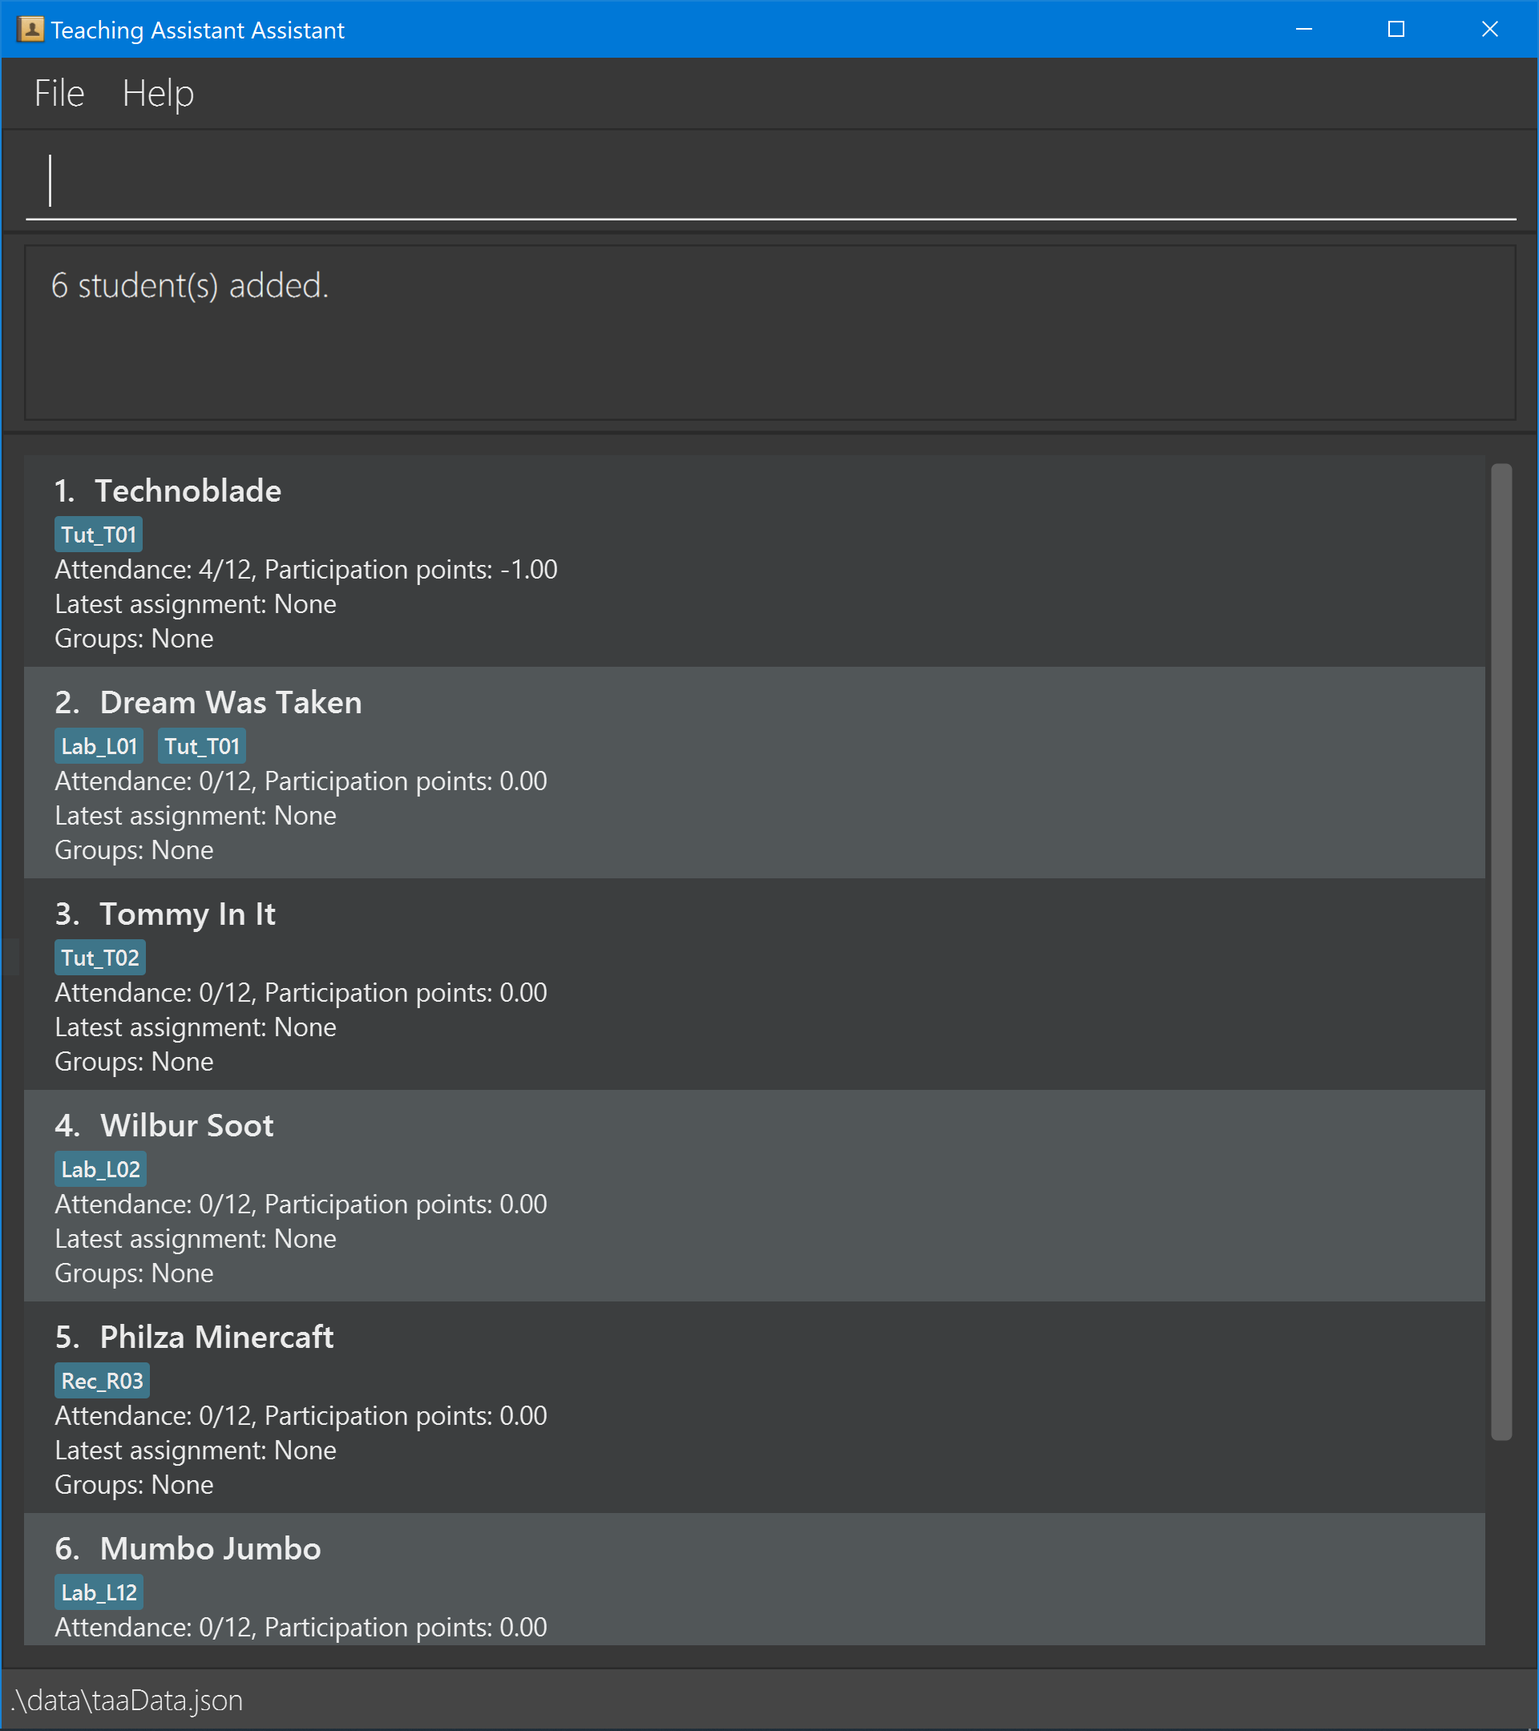
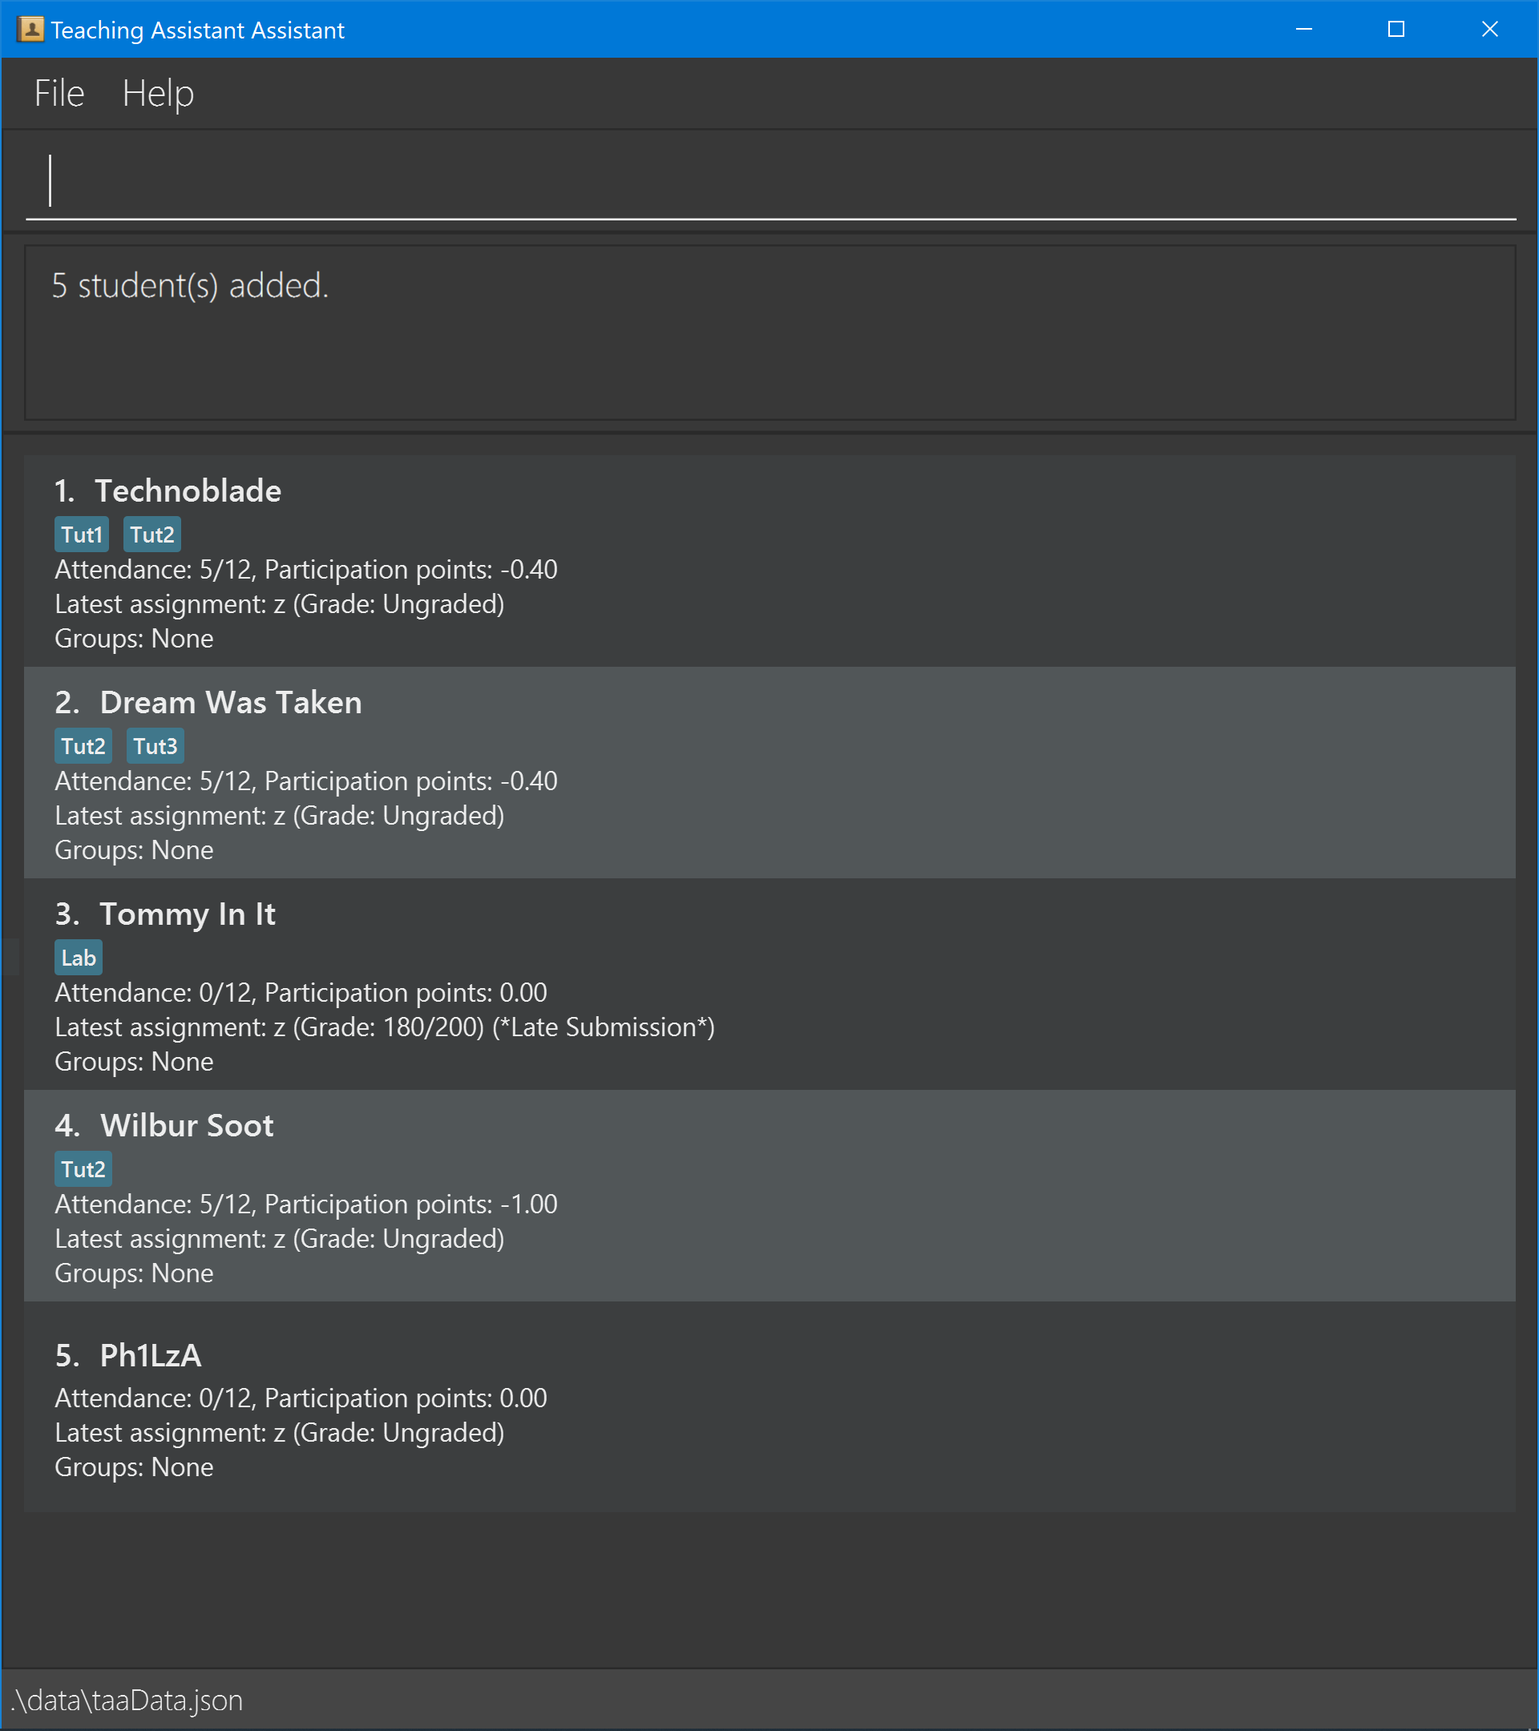
Fix style error

diff --git a/src/test/java/taa/model/student/StudentTest.java b/src/test/java/taa/model/student/StudentTest.java
@@ -14,7 +14,6 @@ import org.junit.jupiter.api.Assertions;
 import org.junit.jupiter.api.Test;
 
 import taa.model.assignment.Assignment;
-import taa.model.assignment.Submission;
 import taa.model.assignment.exceptions.AssignmentNotFoundException;
 import taa.model.tag.Tag;
 import taa.testutil.Assert;
@@ -60,41 +59,41 @@ public class StudentTest {
     public void equals() {
         // same values -> returns true
         Student aliceCopy = new PersonBuilder(TypicalPersons.ALICE).build();
-        Assertions.assertTrue(TypicalPersons.ALICE.equals(aliceCopy));
+        Assertions.assertEquals(TypicalPersons.ALICE, aliceCopy);
 
         // same object -> returns true
-        Assertions.assertTrue(TypicalPersons.ALICE.equals(TypicalPersons.ALICE));
+        Assertions.assertEquals(TypicalPersons.ALICE, TypicalPersons.ALICE);
 
         // null -> returns false
-        Assertions.assertFalse(TypicalPersons.ALICE.equals(null));
+        Assertions.assertNotEquals(null, TypicalPersons.ALICE);
 
         // different type -> returns false
-        Assertions.assertFalse(TypicalPersons.ALICE.equals(5));
+        Assertions.assertNotEquals(5, TypicalPersons.ALICE);
 
         // different student -> returns false
-        Assertions.assertFalse(TypicalPersons.ALICE.equals(TypicalPersons.BOB));
+        Assertions.assertNotEquals(TypicalPersons.ALICE, TypicalPersons.BOB);
 
         // different name -> returns false
         Student editedAlice = new PersonBuilder(TypicalPersons.ALICE).withName(VALID_NAME_BOB).build();
-        Assertions.assertFalse(TypicalPersons.ALICE.equals(editedAlice));
+        Assertions.assertNotEquals(TypicalPersons.ALICE, editedAlice);
 
         // different tags -> returns false
         editedAlice = new PersonBuilder(TypicalPersons.ALICE).withTags(VALID_TAG_TUT_15).build();
-        Assertions.assertFalse(TypicalPersons.ALICE.equals(editedAlice));
+        Assertions.assertNotEquals(TypicalPersons.ALICE, editedAlice);
     }
 
     @Test
     public void getName() {
         // Test pre-built Students
-        Assertions.assertTrue(TypicalPersons.AMY.getName().equals(new Name(VALID_NAME_AMY)));
-        Assertions.assertTrue(TypicalPersons.BOB.getName().equals(new Name(VALID_NAME_BOB)));
+        Assertions.assertEquals(TypicalPersons.AMY.getName(), new Name(VALID_NAME_AMY));
+        Assertions.assertEquals(TypicalPersons.BOB.getName(), new Name(VALID_NAME_BOB));
 
         // Test fresh copies of Students
         Student amyCopy = new PersonBuilder(TypicalPersons.AMY).build();
-        Assertions.assertTrue(amyCopy.getName().equals(new Name(VALID_NAME_AMY)));
+        Assertions.assertEquals(amyCopy.getName(), new Name(VALID_NAME_AMY));
 
         Student bobCopy = new PersonBuilder(TypicalPersons.BOB).build();
-        Assertions.assertTrue(bobCopy.getName().equals(new Name(VALID_NAME_BOB)));
+        Assertions.assertEquals(bobCopy.getName(), new Name(VALID_NAME_BOB));
     }
 
     @Test
@@ -118,7 +117,7 @@ public class StudentTest {
     public void getClassTags_modifySet_throwsUnsupportedOperationException() {
         Set<Tag> amyClassTags = TypicalPersons.AMY.getClassTags();
         Assert.assertThrows(UnsupportedOperationException.class, ()
-            -> amyClassTags.add(new Tag(VALID_TAG_TUT_15)));
+                -> amyClassTags.add(new Tag(VALID_TAG_TUT_15)));
     }
 
     @Test
@@ -226,6 +225,6 @@ public class StudentTest {
     @Test
     public void getGradesForAssignment_noSuchAssignment_throwsAssignmentNotFoundException() {
         Assertions.assertThrows(AssignmentNotFoundException.class, ()
-            -> TypicalPersons.AMY.getGradesForAssignment("nonexistent"));
+                -> TypicalPersons.AMY.getGradesForAssignment("nonexistent"));
     }
 }

diff --git a/src/main/java/taa/model/student/Student.java b/src/main/java/taa/model/student/Student.java
@@ -55,8 +55,8 @@ public class Student {
     }
 
     /**
-     * @return an immutable class tag set, which throws {@code UnsupportedOperationException} if modification is
-     * attempted.
+     *  @return an immutable class tag set, which throws {@code UnsupportedOperationException} if modification is
+     *      attempted.
      */
     public Set<Tag> getClassTags() {
         return Collections.unmodifiableSet(classTags);
@@ -137,8 +137,8 @@ public class Student {
     }
 
     /**
-     * @return true if both persons have the same identity and data fields. This defines a stronger notion of equality
-     * between two persons.
+     *  @return true if both persons have the same identity and data fields. This defines a stronger notion of equality
+     *      between two persons.
      */
     @Override
     public boolean equals(Object other) {

diff --git a/src/main/java/taa/model/assignment/AssignmentList.java b/src/main/java/taa/model/assignment/AssignmentList.java
@@ -280,7 +280,7 @@ public class AssignmentList {
 
     /** @return The name of the latest assignment or null if no assignment is in list */
     public String getLatestAsgnName() {
-        if(assignments.isEmpty()) {
+        if (assignments.isEmpty()) {
             return null;
         }
         final Assignment assignment = assignments.get(assignments.size() - 1);

diff --git a/docs/DeveloperGuide.md b/docs/DeveloperGuide.md
@@ -372,7 +372,7 @@ Among the two options described below, our team decided to choose the former as 
 ### Mark Attendance
 
 #### Implementation
-Mark Attendance command is facilitated by `MarkAttendanceParser`, `MarkAttednanceCommand` and `Model`
+Mark Attendance command is facilitated by `MarkAttendanceParser`, `MarkAttednanceCommand`, and `Model`
 
 * `MarkAttendanceParser`-- Parse the input of users
 * `MarkAttednanceCommand` -- Execute the command given the parsed user input
@@ -403,7 +403,7 @@ Sequence Diagram for Marking Attendance
 ### Unmark Attendance
 
 #### Implementation
-Unmark Attendance command is facilitated by `UnarkAttendanceParser`, `UnarkAttednanceCommand` and `Model`
+Unmark Attendance command is facilitated by `UnarkAttendanceParser`, `UnarkAttednanceCommand`, and `Model`
 
 * `UnarkAttendanceParser`-- Parse the input of users
 * `UnarkAttednanceCommand` -- Execute the command given the parsed user input
@@ -434,7 +434,7 @@ Sequence Diagram for Unmarking Attendance
 ### Insert Participation
 
 #### Implementation
-Insert Participation command is facilitated by `InsertParticipationParser`, `InsertParticipationCommand` and `Model`
+Insert Participation command is facilitated by `InsertParticipationParser`, `InsertParticipationCommand`, and `Model`
 
 * `InsertParticipationParser`-- Parse the input of users
 * `InsertParticipationCommand` -- Execute the command given the parsed user input
@@ -463,7 +463,7 @@ Sequence Diagram for Inserting Participation
 ### Add Assignment
 
 #### Implementation
-AddAssignment command is facilitated by `AddAssignmentCommandParser`, `AddAssignmentCommand` and `Model`
+AddAssignment command is facilitated by `AddAssignmentCommandParser`, `AddAssignmentCommand`, and `Model`
 
 * `AddAssignmentCommandParser`-- Parse the input of users
 * `AddAssignmentCommand` -- Execute the command given the parsed user input
@@ -493,7 +493,7 @@ Sequence Diagram for Adding Assignment
 ### Delete Assignment
 
 #### Implementation
-DeleteAssignment command is facilitated by `DeleteAssignmentCommandParser`, `DeleteAssignmentCommand` and `Model`
+DeleteAssignment command is facilitated by `DeleteAssignmentCommandParser`, `DeleteAssignmentCommand`, and `Model`
 
 * `DeleteAssignmentCommandParser`-- Parse the input of users
 * `DeleteAssignmentCommand` -- Execute the command given the parsed user input
@@ -523,7 +523,7 @@ Sequence Diagram for Deleting Assignment
 ### Grade Assignment
 
 #### Implementation
-Grade command is facilitated by `GradeCommandParser`, `GradeCommand` and `Model`
+Grade command is facilitated by `GradeCommandParser`, `GradeCommand`, and `Model`
 
 * `GradeCommandParser`-- Parse the input of users
 * `GradeCommand` -- Execute the command given the parsed user input
@@ -553,7 +553,7 @@ Sequence Diagram for grading a student submission
 ### Ungrade Assignment
 
 #### Implementation
-Ungrade command is facilitated by `UngradeCommandParser`, `UngradeCommand` and `Model`
+Ungrade command is facilitated by `UngradeCommandParser`, `UngradeCommand`, and `Model`
 
 * `UngradeCommandParser`-- Parse the input of users
 * `UngradeCommand` -- Execute the command given the parsed user input
@@ -583,7 +583,7 @@ Sequence Diagram for ungrading a student submission
 ### Add Alarm
 
 #### Implementation
-Grade command is facilitated by `AddAlarmCommandParser`, `AddAlarmCommand` and `Model`
+Grade command is facilitated by `AddAlarmCommandParser`, `AddAlarmCommand`, and `Model`
 
 * `AddAlarmCommandParser`-- Parse the input of users
 * `AddAlarmCommand` -- Execute the command given the parsed user input
@@ -641,12 +641,33 @@ Sequence Diagram for listing the alarms
     * Cons: Add complexity to the code structure unnecessarily, as the parser does not need to do anything (not for the
       current functions of the list_alarms command, though may be extended in the future to allow listing of a 
       particular alarm)
+    
+### Import CSV files Feature
+Import CSV command is facilitated by `ImportCommandParser`, `ImportCommand`, and `Model`
+#### Implementation
+#### Design Considerations
 
-### Data archiving
+### Export CSV files Feature
+Import CSV command is facilitated by `ExportCommandParser`, `ExportCommand`, and `Model`
+#### Implementation
+#### Design Considerations
+
+--------------------------------------------------------------------------------------------------------------------
+
+## **Documentation, logging, testing, configuration, dev-ops**
+
+* [Documentation guide](Documentation.md)
+* [Testing guide](Testing.md)
+* [Logging guide](Logging.md)
+* [Configuration guide](Configuration.md)
+* [DevOps guide](DevOps.md)
+
+### Data Archiving
+TAA application data only contains a list of students and a list of assignments. It is automatically stored in JSON
+format at each successful command execution.
 
 #### Implementation
-TAA application data only contains a list of students and a list of assignments. It is automatically stored in JSON
-format at each successful command execution. It is handled by `JsonTaaStorage`.
+TAA data saving is handled by `JsonTaaStorage`.
 
 Reading data from JSON:
 
@@ -668,15 +689,8 @@ by
 `JsonSerializableTaaData` which supports [Jackson](https://github.com/FasterXML/jackson) data conversion between Java
 objects and JSON objects.
 
---------------------------------------------------------------------------------------------------------------------
-
-## **Documentation, logging, testing, configuration, dev-ops**
-
-* [Documentation guide](Documentation.md)
-* [Testing guide](Testing.md)
-* [Logging guide](Logging.md)
-* [Configuration guide](Configuration.md)
-* [DevOps guide](DevOps.md)
+#### Design Considerations
+Inherited from AB3. The Jackson framework is easy to use.
 
 --------------------------------------------------------------------------------------------------------------------
 
@@ -716,7 +730,7 @@ Priorities: High (must have) - `* * *`, Medium (nice to have) - `* *`, Low (unli
 | `* * *`  | user           | have CSV files storing my data                                           | make backups to guard against data loss                                                                      |
 | `* * *`  | user           | load in CSV files to restore data                                        | avoid having to do manual data entry when using the app from scratch                                         |
 | `* * *`  | user           | exit the app gracefully                                                  | avoid data corruption                                                                                        |
-| `* *`  | forgetful TA   | track valid reasons for a student's absence                              | record attendance for those with valid reasons                                                               |
+| `* *`    | forgetful TA   | track valid reasons for a student's absence                              | record attendance for those with valid reasons                                                               |
 | `* *`    | TA             | assign individual assignment grades to students                          | track the specific grade each student has obtained for each assignment                                       |
 | `* *`    | forgetful TA   | track questions asked by students                                        | answer them on time                                                                                          |
 | `* *`    | forgetful TA   | keep a timeline/lesson plan for each lesson                              | complete the lessons on time without missing out on any content                                              |
@@ -1097,8 +1111,8 @@ Acceptable CSV format example: (suppose assignment x, y, and z is already added 
 
 ```
 Technoblade,1;0;0;1;1;1;0;1;0;0;0;0,-1;0;-1;2;-1;-1;-1;-1;200;-1;-1;-1,"x,0,0,1;y,0,0,2;z,0,0,3;",Tut1;Tut2;
- Dream Was Taken,    1  ;0;0 ; 1;1;1; 0;1  ;0;0;0;0,-1;0; -1;2;-1;-1;-1  ;-1;200;-1;-1;-1,"  x ,0, 0,2;y,0 ,0,100 ; z,0  ,  0,0 ;  ", Tut2   ;Tut3;
-Tommy In It,,-1;0;-1;2;-1;-1;-1;-1;2;-1;-1;-1,"x,0,0,15;z,0,0,0;",Lab
+ Dream Was Taken,    1  ;0;0 ; 1;1;1; 0;1  ;0;0;0;0,-1;0; -1;2;-1;-1;-1  ;-1;200;-1;-1;-1,"  x ,0, 0,2;y,1 ,0,100 ; z,0  ,  0,0 ;  ", Tut2   ;Tut3;
+Tommy In It,,-1;0;-1;2;-1;-1;-1;-1;2;-1;-1;-1,"x,1,0,15;z,1,1,180;",Lab
 Wilbur Soot,1;0;0;1;1;1;0;1;0;0;0;0, ,"y,0,0,0", ;Tut2;
 Ph1LzA,,,,
 ```

diff --git a/docs/UserGuide.md b/docs/UserGuide.md
@@ -93,11 +93,11 @@ They can also be used to denote keys that should be held together, at the same t
 
 1. Ensure you have Java 11 or above installed in your Computer.
 
-1. Download the latest `taa.jar` from [here](https://github.com/AY2223S2-CS2103T-T14-4/tp/releases).
+2. Download the latest `taa.jar` from [here](https://github.com/AY2223S2-CS2103T-T14-4/tp/releases).
 
-1. Copy the file to the folder you want to use as the _home folder_ for your TAA.
+3. Copy the file to the folder you want to use as the _home folder_ for your TAA.
 
-1. Open a command terminal, `cd` into the folder you put the jar file in, and use the `java -jar taa.jar` command to run
+4. Open a command terminal, `cd` into the folder you put the jar file in, and use the `java -jar taa.jar` command to run
    the application.<br>
    A GUI similar to the below should appear in a few seconds. Note how the app contains some sample data.<br><br>
    ![Ui](./images/Ui.png)
@@ -107,7 +107,7 @@ They can also be used to denote keys that should be held together, at the same t
    : TAA window
    </em></figcaption>
 
-1. Type the command in the command box and press Enter to execute it. e.g. typing `help` and pressing Enter will open
+5. Type the command in the command box and press Enter to execute it. e.g. typing `help` and pressing Enter will open
    the help window.<br>
    Some example commands you can try:
 
@@ -119,7 +119,8 @@ They can also be used to denote keys that should be held together, at the same t
 
     * `exit` : Exits the app.
 
-1. Refer to the [Features](#features) below for details of each command.
+6. Refer to the [Features](#features) below for details of each command.
+7. Use <Button>↑</Button> and <Button>↓</Button> to navigate through command history.
 
 --------------------------------------------------------------------------------------------------------------------
 
@@ -747,21 +748,21 @@ Acceptable CSV format example: (suppose assignment x, y, and z is already added 
 
 ```
 Technoblade,1;0;0;1;1;1;0;1;0;0;0;0,-1;0;-1;2;-1;-1;-1;-1;200;-1;-1;-1,"x,0,0,1;y,0,0,2;z,0,0,3;",Tut1;Tut2;
- Dream Was Taken,    1  ;0;0 ; 1;1;1; 0;1  ;0;0;0;0,-1;0; -1;2;-1;-1;-1  ;-1;200;-1;-1;-1,"  x ,0, 0,2;y,0 ,0,100 ; z,0  ,  0,0 ;  ", Tut2   ;Tut3;
-Tommy In It,,-1;0;-1;2;-1;-1;-1;-1;2;-1;-1;-1,"x,0,0,15;z,0,0,0;",Lab
+ Dream Was Taken,    1  ;0;0 ; 1;1;1; 0;1  ;0;0;0;0,-1;0; -1;2;-1;-1;-1  ;-1;200;-1;-1;-1,"  x ,0, 0,2;y,1 ,0,100 ; z,0  ,  0,0 ;  ", Tut2   ;Tut3;
+Tommy In It,,-1;0;-1;2;-1;-1;-1;-1;2;-1;-1;-1,"x,1,0,15;z,1,1,180;",Lab
 Wilbur Soot,1;0;0;1;1;1;0;1;0;0;0;0, ,"y,0,0,0", ;Tut2;
 Ph1LzA,,,,
 ```
 
 Excel spreadsheet format that exports acceptable CSV files: (please ignore the first empty row)
 
-|                  |                              |                                      |                                    |             |
-|------------------|------------------------------|--------------------------------------|------------------------------------|-------------|
-| Technoblade      | 1;0;0;1;1;1;0;1;0;0;0;0      | -1;0;-1;2;-1;-1;-1;-1;200;-1;-1;-1   | x,0,0,1;y,0,0,2;z,0,0,3;           | Tut1;Tut2;  |
-| Dream Was Taken  | 1 ;0;0 ; 1;1;1; 0;1 ;0;0;0;0 | -1;0; -1;2;-1;-1;-1 ;-1;200;-1;-1;-1 | x ,0, 0,2;y,0 ,0,100 ; z,0 , 0,0 ; | Tut2 ;Tut3; |
-| Tommy In It      |                              | -1;0;-1;2;-1;-1;-1;-1;2;-1;-1;-1     | x,0,0,15;z,0,0,0;                  | Lab         |
-| Wilbur Soot      | 1;0;0;1;1;1;0;1;0;0;0;0      |                                      | y,0,0,0                            | ;Tut2;      |
-| Philza Minercaft |                              |                                      |                                    |             |
+|                 |                                |                                       |                                      |               |
+|-----------------|--------------------------------|---------------------------------------|--------------------------------------|---------------|
+| Technoblade     | 1;0;0;1;1;1;0;1;0;0;0;0        | -1;0;-1;2;-1;-1;-1;-1;200;-1;-1;-1    | x,0,0,1;y,0,0,2;z,0,0,3;             | Tut1;Tut2;    |
+| Dream Was Taken | 1  ;0;0 ; 1;1;1; 0;1  ;0;0;0;0 | -1;0; -1;2;-1;-1;-1  ;-1;200;-1;-1;-1 | x ,0, 0,2;y,1 ,0,100 ; z,0  ,  0,0 ; | Tut2   ;Tut3; |
+| Tommy In It     |                                | -1;0;-1;2;-1;-1;-1;-1;2;-1;-1;-1      | x,1,0,15;z,1,1,180;                  | Lab           |
+| Wilbur Soot     | 1;0;0;1;1;1;0;1;0;0;0;0        |                                       | y,0,0,0                              | ;Tut2;        |
+| Ph1LzA          |                                |                                       |                                      |               |
 
 #### Import data in CSV format: `import`
 
